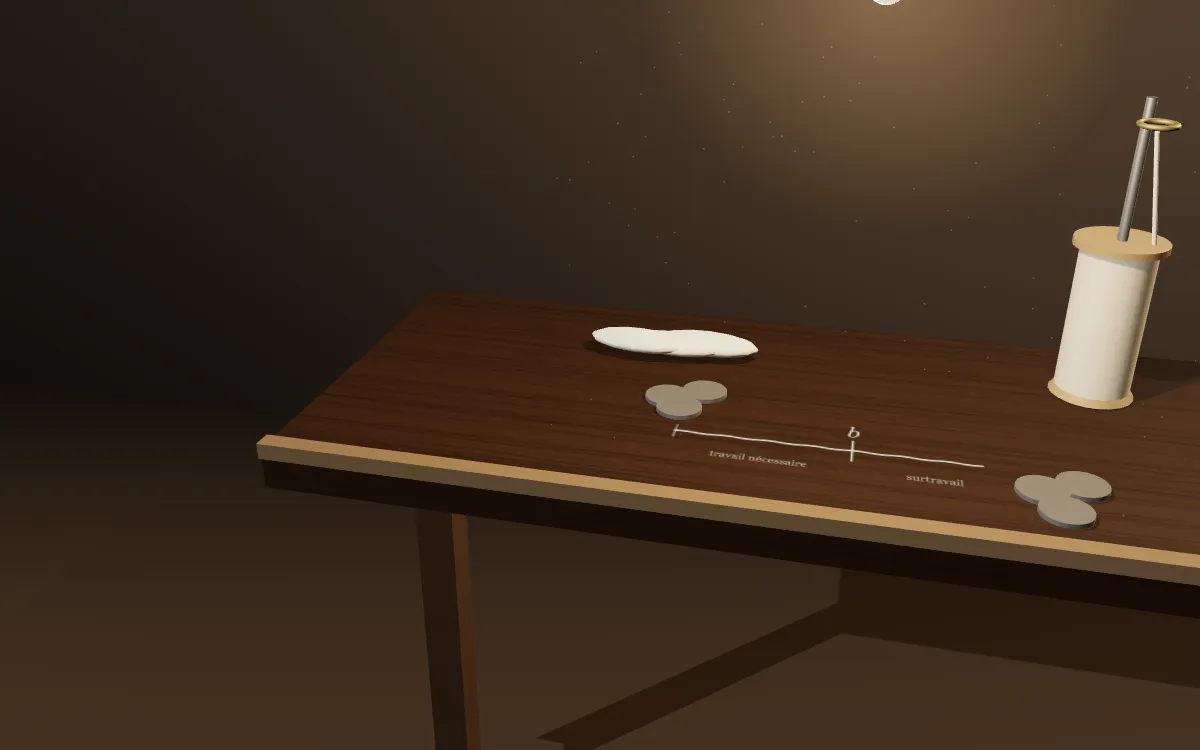
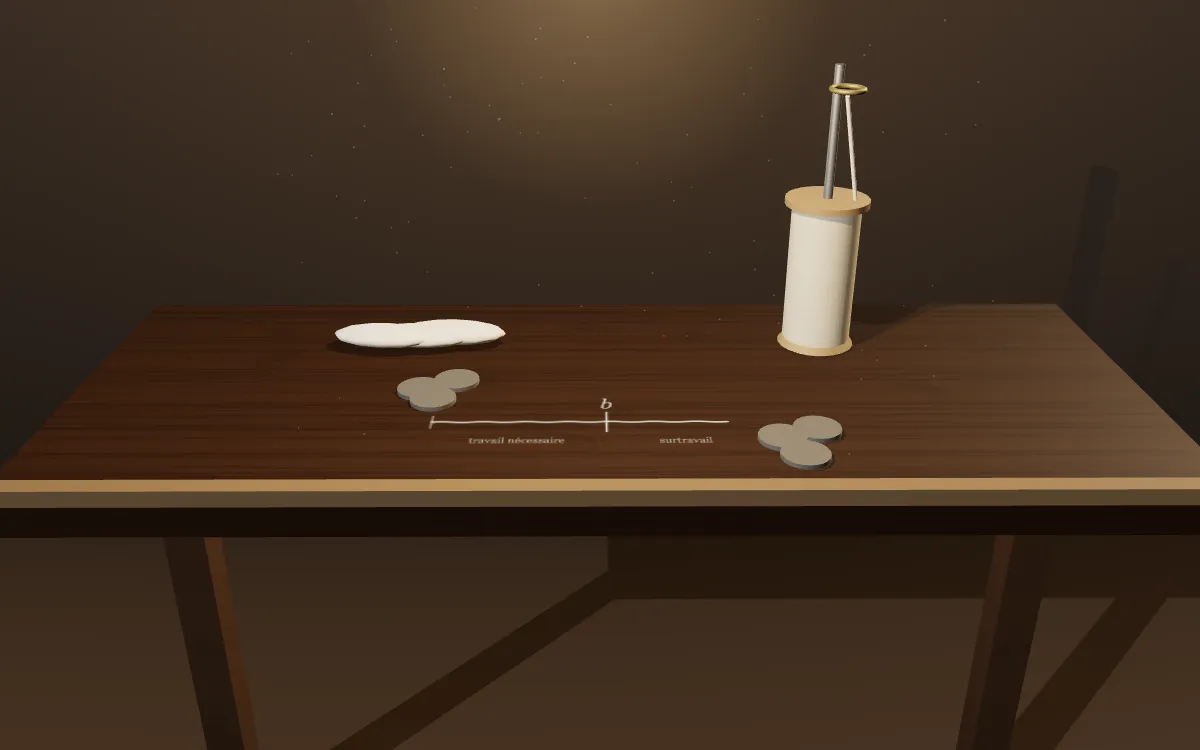
Glossaire : plus-value réécrite selon la charte, direction artistique « la feuille de paie »

diff --git a/glossaire/mondes/plus-value/essai.html b/glossaire/mondes/plus-value/essai.html
@@ -1,46 +1,84 @@
-<!-- L'ESSAI — le corps de /glossaire/plus-value. Même contrat que
-     fetichisme/essai.html : data-s="2" = Section II de Roy (ch. IV–VI),
-     data-s="3" = Section III (ch. VII–XI). -->
+<!-- L'ESSAI : le corps de /glossaire/plus-value.
+     Fragment HTML, assemblé par tools/gen-seo.mjs dans le gabarit des pages
+     de notion (avec meta.json pour la tête, l'appareil et le monde).
+     Réécrit en octobre 2026 selon glossaire/mondes/CHARTE.md.
+     Une <section data-etape="…"> par temps de l'exposé : c'est l'étape que
+     la scène (monde.js) joue. Un data-q est une phrase RELEVÉE dans le texte
+     que la liseuse sert (Roy, Wikisource), au caractère près : data-s="2" =
+     section II de Roy (ch. IV à VI), data-s="3" = section III (ch. VII à XI),
+     data-s="5" = section V (ch. XVI à XVIII). Ne pas « corriger » les
+     traits d'union insécables ni l'apostrophe typographique. -->
 
 <section class="nt-sec" data-etape="enigme" id="enigme">
-<h2>D'où vient le plus&nbsp;?</h2>
-<p>La plus-value est le concept autour duquel le Livre&nbsp;I tout entier s'organise, et Marx le présente lui-même comme un secret à dévoiler&nbsp;: <q data-s="2" data-q="La fabrication de la plus‑value, ce grand secret de la société moderne">la fabrication de la plus‑value, ce grand secret de la société moderne</q>. Il faut prendre le mot au sérieux, parce que la manière dont Marx s'y prend pour le dévoiler est la démonstration elle-même. Il commence par rendre le problème insoluble. La formule du capital est A—M—A′&nbsp;: de l'argent qui achète une marchandise pour la revendre, et revient augmenté d'un excédent, ΔA, qu'il nomme plus-value. Or le chapitre V établit que cet excédent ne peut venir de la circulation. Si l'on échange des équivalents, nul ne gagne&nbsp;; si l'on échange des non-équivalents, ce que l'un gagne comme vendeur il le reperd comme acheteur, et <q data-s="2" data-q="La classe entière des capitalistes d’un pays ne peut pas bénéficier sur elle-même">la classe entière des capitalistes d’un pays ne peut pas bénéficier sur elle-même</q>. Marx conclut&nbsp;:</p>
+<h2>Pourquoi l'échange ne peut-il pas expliquer la plus-value&nbsp;?</h2>
+<p class="nt-lead">Parce que dans l'échange, ce que l'un gagne, l'autre le perd. Marx commence par montrer que le surplus de l'argent placé ne peut pas venir du commerce, et le problème paraît alors sans solution.</p>
+<p>Marx présente la plus-value comme une énigme. Il parle de <q data-s="2" data-q="La fabrication de la plus‑value, ce grand secret de la société moderne">la fabrication de la plus‑value, ce grand secret de la société moderne</q>, et il organise son exposé comme on résout un problème. Le point de départ est un fait que tout le monde connaît. Celui qui place de l'argent comme capital achète une marchandise pour la revendre&nbsp;: l'argent (A) devient marchandise (M), puis redevient argent, mais un argent augmenté (A′). Marx écrit ce mouvement A-M-A′ et nomme plus-value l'excédent de A′ sur A. Reste à savoir d'où il sort.</p>
+<p>La réponse qui vient d'abord est le commerce&nbsp;: on achète bon marché, on revend cher. Le chapitre V l'examine et la rejette. Si l'on échange des valeurs égales, personne ne gagne. Si quelqu'un vend au-dessus de la valeur, il reperd comme acheteur ce qu'il a gagné comme vendeur. Un marchand habile peut tromper un autre marchand, mais ce qu'il gagne a seulement changé de poche, et <q data-s="2" data-q="La classe entière des capitalistes d’un pays ne peut pas bénéficier sur elle-même">la classe entière des capitalistes d’un pays ne peut pas bénéficier sur elle-même</q>. Marx conclut&nbsp;:</p>
 <blockquote data-s="2" data-q="Qu’on se tourne et retourne comme on voudra, les choses restent au même point"><p>Qu’on se tourne et retourne comme on voudra, les choses restent au même point. Échange-t-on des équivalents&nbsp;? Il ne se produit point de plus-value&nbsp;; il ne s’en produit pas non plus si l’on échange des non-équivalents. La circulation ou l’échange des marchandises ne crée aucune valeur.</p></blockquote>
-<p>Mais la plus-value ne peut pas davantage naître hors de la circulation, puisque hors d'elle le possesseur d'argent n'a affaire qu'à sa propre marchandise et ne rencontre personne. La difficulté est donc entière, et Marx la formule comme un défi&nbsp;: la métamorphose de l'homme aux écus en capitaliste <q data-s="2" data-q="doit se passer dans la sphère de la circulation et en même temps doit ne point s’y passer">doit se passer dans la sphère de la circulation et en même temps doit ne point s’y passer</q>. Toute la théorie de la plus-value est la résolution de cette contradiction, et il faut la suivre dans l'ordre où Marx la résout&nbsp;: la marchandise particulière qu'il faut trouver, la distinction de grandeur qu'elle recèle, le mécanisme par lequel cette distinction devient un excédent, la mesure de cet excédent, et enfin les deux voies par lesquelles le capital l'accroît.</p>
+<p>La plus-value ne peut pas davantage naître hors de l'échange. Le possesseur d'argent qui reste seul avec sa marchandise ne rencontre personne, et la valeur de ce qu'il possède ne bouge pas. Marx pose alors le problème sous la forme d'un défi&nbsp;: la transformation de l'homme aux écus en capitaliste <q data-s="2" data-q="doit se passer dans la sphère de la circulation et en même temps doit ne point s’y passer">doit se passer dans la sphère de la circulation et en même temps doit ne point s’y passer</q>. Toute la théorie de la plus-value répond à cette contradiction apparente.</p>
 </section>
 
 <section class="nt-sec" data-etape="lieu" id="lieu">
-<h2>Où Marx la pose&nbsp;: dans la production, et non dans l'échange</h2>
-<p>La solution tient dans une marchandise dont la valeur d'usage a <q data-s="2" data-q="la vertu particulière d’être source de valeur échangeable">la vertu particulière d’être source de valeur échangeable</q>&nbsp;: la <a href="/glossaire/force-de-travail">force de travail</a>. Le chapitre VI l'achète sur le marché, à sa valeur&nbsp;; le chapitre VII la consomme, et c'est là seulement que la plus-value paraît. Ce déplacement du marché à l'atelier n'est pas un détour&nbsp;: c'est la thèse. Marx le marque en franchissant, avec ses deux personnages, le seuil du <q data-s="2" data-q="laboratoire secret de la production">laboratoire secret de la production</q>, et le chapitre VII s'ouvre par une phrase qui fixe le lieu du concept&nbsp;: <q data-s="3" data-q="L’usage ou l’emploi de la force de travail, c’est le travail">l’usage ou l’emploi de la force de travail, c’est le travail</q>.</p>
-<p>Il importe de voir pourquoi le chapitre analyse d'abord le procès de travail en général, l'homme, la nature et l'outil, avant d'en venir à la valeur. C'est que la production capitaliste est la même production sous deux faces&nbsp;: comme production de valeurs d'usage, elle est un acte utile, qualitatif, qui ne se distingue en rien de ce qu'il était avant le capital&nbsp;; comme production de valeur, le même procès ne se présente qu'au point de vue de la quantité, du temps. La plus-value ne vit que sur la seconde face, et Marx en donne la définition la plus sobre qu'on puisse imaginer&nbsp;:</p>
+<h2>Quelle marchandise peut créer plus de valeur qu'elle n'en coûte&nbsp;?</h2>
+<p class="nt-lead">La force de travail, c'est-à-dire la capacité de travailler d'un être humain. On l'achète sur le marché, on l'emploie dans l'atelier, et c'est son emploi qui crée de la valeur.</p>
+<p>Pour sortir de l'impasse, il faut une marchandise dont la valeur d'usage, c'est-à-dire l'utilité, consiste à produire de la valeur. Marx la décrit comme une marchandise qui aurait <q data-s="2" data-q="la vertu particulière d’être source de valeur échangeable">la vertu particulière d’être source de valeur échangeable</q>. Le chapitre VI la trouve sur le marché&nbsp;: c'est la <a href="/glossaire/force-de-travail">force de travail</a>, que l'ouvrier vend pour un temps donné parce qu'il n'a rien d'autre à vendre. Le capitaliste la paie à sa valeur, celle des subsistances qu'il faut à l'ouvrier pour vivre et revenir le lendemain. Rien, dans cet achat, n'est irrégulier.</p>
+<p>Marx change alors de décor. Il quitte le marché avec ses deux personnages, l'acheteur et le vendeur, et entre avec eux dans le <q data-s="2" data-q="laboratoire secret de la production">laboratoire secret de la production</q>. Le chapitre VII commence par une phrase qui fixe le lieu du concept&nbsp;: <q data-s="3" data-q="L’usage ou l’emploi de la force de travail, c’est le travail">l’usage ou l’emploi de la force de travail, c’est le travail</q>. L'achat a eu lieu dans l'échange. La consommation de ce qui a été acheté a lieu dans la production, et c'est là que la plus-value se forme.</p>
+<p>Le chapitre décrit d'abord le travail en général, avec l'homme, la matière et l'outil, avant d'en venir à la valeur. Le même procès peut en effet se regarder de deux côtés. Comme fabrication d'objets utiles, il ressemble à tout travail humain, à toutes les époques. Comme production de valeur, il ne compte plus que du temps. C'est de ce second côté que Marx donne sa définition&nbsp;:</p>
 <blockquote data-s="3" data-q="La production de plus‑value n’est donc autre chose que la production de valeur, prolongée au‑delà d’un certain point"><p>La production de plus‑value n’est donc autre chose que la production de valeur, prolongée au‑delà d’un certain point. Si le procès de travail ne dure que jusqu’au point où la valeur de la force de travail payée par le capital est remplacée par un équivalent nouveau, il y a simple production de valeur&nbsp;; quand il dépasse cette limite, il y a production de plus‑value.</p></blockquote>
-<p>On comprend alors pourquoi le concept ne pouvait être exposé ni au chapitre I, où il n'y a encore que des marchandises, ni au chapitre IV, où la formule du capital ne fait que poser la question. Il fallait avoir montré ce qu'est le travail comme substance de la valeur, puis ce qu'est la force de travail comme marchandise, pour pouvoir dire que la plus-value est du travail qui continue au-delà du point où il s'est payé.</p>
 </section>
 
 <section class="nt-sec" data-etape="distinction" id="distinction">
-<h2>La distinction qui fait le concept, et le mot qui la nomme</h2>
-<p>La plus-value repose entièrement sur une différence de grandeur que l'économie politique n'avait pas vue, parce qu'elle parlait de la «&nbsp;valeur du travail&nbsp;» au lieu de distinguer la force et son usage. La force de travail a une valeur, celle des subsistances qu'il faut pour la produire chaque jour, mettons six heures. Mais l'usage de cette force n'est pas borné par son coût&nbsp;: <q data-s="3" data-q="Si une demi‑journée de travail suffit pour faire vivre l’ouvrier pendant vingt‑quatre heures">si une demi‑journée de travail suffit pour faire vivre l’ouvrier pendant vingt‑quatre heures, il ne s’ensuit pas qu’il ne puisse travailler une journée tout entière</q>. Marx le dit en une phrase qu'il faut retenir comme la définition même du concept&nbsp;: <q data-s="3" data-q="La valeur que la force de travail possède et la valeur qu’elle peut créer, diffèrent donc de grandeur">la valeur que la force de travail possède et la valeur qu’elle peut créer, diffèrent donc de grandeur</q>. La plus-value est cette différence, une fois réalisée dans le produit. Et il ajoute, avec une ironie qui est déjà une thèse, que le capitaliste, en la percevant, se conforme aux lois éternelles de l'échange&nbsp;: c'est <q data-s="3" data-q="une chance particulièrement heureuse pour l’acheteur, mais qui ne lèse en rien le droit du vendeur">une chance particulièrement heureuse pour l’acheteur, mais qui ne lèse en rien le droit du vendeur</q>.</p>
-<p>Un mot sur le mot. L'allemand dit <i lang="de">Mehrwert</i>, littéralement «&nbsp;plus de valeur&nbsp;», sur le modèle de <i lang="de">Mehrarbeit</i>, le surtravail. Joseph Roy, dans la traduction de 1872 que Marx a revue et que ce site sert, écrit «&nbsp;plus-value&nbsp;»&nbsp;; Jean-Pierre Lefebvre, dans celle de 1983, a choisi «&nbsp;survaleur&nbsp;», pour deux raisons qui se tiennent&nbsp;: garder visible la famille de <i>Wert</i>, la valeur, dont <i>Mehrwert</i> n'est qu'un composé, et éviter le sens que «&nbsp;plus-value&nbsp;» a pris en comptabilité et en fiscalité, où il désigne le gain réalisé à la revente d'un bien, c'est-à-dire précisément ce que Marx exclut au chapitre V. Nous gardons «&nbsp;plus-value&nbsp;», parce que c'est le mot du texte que l'on lit ici et celui que l'on cherche&nbsp;; mais le lecteur qui rencontre «&nbsp;survaleur&nbsp;» doit savoir qu'il s'agit du même concept, et que le second mot dit mieux ce qu'il est&nbsp;: non une plus-value <i>sur</i> quelque chose, mais de la valeur en plus, née du travail.</p>
+<h2>Que mesure la plus-value, et pourquoi dit-on aussi «&nbsp;survaleur&nbsp;»&nbsp;?</h2>
+<p class="nt-lead">Elle mesure l'écart entre ce que coûte la force de travail et ce qu'elle produit en une journée. L'allemand dit <i lang="de">Mehrwert</i>, «&nbsp;plus de valeur&nbsp;»&nbsp;: Joseph Roy traduit «&nbsp;plus-value&nbsp;», Jean-Pierre Lefebvre «&nbsp;survaleur&nbsp;».</p>
+<p>Les économistes d'avant Marx parlaient de la «&nbsp;valeur du travail&nbsp;». Marx sépare deux choses que cette expression confond&nbsp;: la force de travail et son usage. La force vaut ce que coûtent les subsistances de l'ouvrier pour un jour, mettons six heures de travail. Son usage, lui, n'est pas borné par ce coût&nbsp;: <q data-s="3" data-q="Si une demi‑journée de travail suffit pour faire vivre l’ouvrier pendant vingt‑quatre heures">si une demi‑journée de travail suffit pour faire vivre l’ouvrier pendant vingt‑quatre heures, il ne s’ensuit pas qu’il ne puisse travailler une journée tout entière</q>. D'où la phrase qui tient lieu de définition&nbsp;: <q data-s="3" data-q="La valeur que la force de travail possède et la valeur qu’elle peut créer, diffèrent donc de grandeur">la valeur que la force de travail possède et la valeur qu’elle peut créer, diffèrent donc de grandeur</q>. La plus-value est cette différence, une fois inscrite dans le produit.</p>
+<p>Marx ajoute, avec une ironie qui porte un argument, que le capitaliste n'enfreint aucune règle en encaissant cette différence. Elle est <q data-s="3" data-q="une chance particulièrement heureuse pour l’acheteur, mais qui ne lèse en rien le droit du vendeur">une chance particulièrement heureuse pour l’acheteur, mais qui ne lèse en rien le droit du vendeur</q>. Le vendeur a reçu le prix de sa marchandise. Ce que l'usage de cette marchandise rapporte ensuite appartient à celui qui l'a achetée, comme l'usage de n'importe quelle chose achetée.</p>
+<p>Un mot, maintenant, sur le mot. L'allemand <i lang="de">Mehrwert</i> associe <i lang="de">mehr</i>, «&nbsp;plus&nbsp;», et <i lang="de">Wert</i>, «&nbsp;valeur&nbsp;», sur le modèle de <i lang="de">Mehrarbeit</i>, le surtravail. Joseph Roy, dans la traduction de 1872 que Marx a revue et que ce site sert, écrit «&nbsp;plus-value&nbsp;». La traduction dirigée par Jean-Pierre Lefebvre en 1983 écrit «&nbsp;survaleur&nbsp;». On peut comprendre ce choix de deux façons. Le mot garde visible la famille de la valeur, comme «&nbsp;surtravail&nbsp;» garde celle du travail. Il évite aussi le sens que «&nbsp;plus-value&nbsp;» a pris dans la langue courante et en droit fiscal, celui du gain réalisé en revendant un bien plus cher qu'on ne l'a acheté.</p>
+<p>Ce second sens est piégeux, car il désigne exactement l'explication que Marx écarte au chapitre V&nbsp;: le profit tiré d'une revente. Celui qui lit «&nbsp;plus-value&nbsp;» en pensant à une plus-value immobilière part donc dans la mauvaise direction. Cette page garde le mot de Roy, qui est celui du texte servi et celui qu'on cherche. Plus-value et survaleur désignent le même concept&nbsp;: de la valeur en plus, née du travail.</p>
 </section>
 
 <section class="nt-sec" data-etape="mecanisme" id="mecanisme">
-<h2>Le mécanisme&nbsp;: la journée coupée en deux</h2>
-<p>Marx fait la démonstration sur un exemple qu'il conduit jusqu'au bout, et l'exemple vaut mieux que tout résumé. Un fileur transforme du coton en filés. Le capitaliste a acheté dix livres de coton pour dix shillings, l'usure des broches pour deux, et la force de travail d'une journée pour trois, soit la valeur de six heures. Le fileur file pendant six heures&nbsp;: les dix livres de filés valent quinze shillings, exactement ce qui a été avancé. <q data-s="3" data-q="Notre capitaliste reste ébahi">Notre capitaliste reste ébahi</q>&nbsp;: la valeur du produit égale la valeur du capital avancé, l'argent ne s'est pas métamorphosé en capital. Il plaide son abstinence, ses services, sa surveillance&nbsp;; Marx écarte ces litanies une à une. Puis&nbsp;:</p>
+<h2>Comment le fileur de Marx produit-il une plus-value&nbsp;?</h2>
+<p class="nt-lead">En travaillant plus longtemps qu'il ne faut pour reproduire la valeur de sa force de travail. Les six premières heures remboursent son salaire, les six suivantes forment la plus-value, et tout a été payé à sa valeur.</p>
+<p>Marx fait la démonstration sur un exemple qu'il conduit jusqu'au bout. Il prend un fileur, qui transforme du coton en fil à l'aide d'une broche, et il compte tout en shillings.</p>
+<div class="nt-ex">
+<p class="nt-ex-t">Un exemple&nbsp;: le fileur du chapitre VII</p>
+<p>Les chiffres sont ceux de Marx. Le capitaliste a acheté dix livres de coton pour dix shillings, l'usure des broches pour deux, et une journée de force de travail pour trois, soit la valeur de six heures de travail. Le fileur file six heures&nbsp;: les dix livres de filés valent quinze shillings, exactement la somme avancée. <q data-s="3" data-q="Notre capitaliste reste ébahi">Notre capitaliste reste ébahi</q>&nbsp;: son argent n'a rien rapporté.</p>
+<p>Mais c'est une journée entière qu'il a achetée&nbsp;:</p>
 <blockquote data-s="3" data-q="Notre capitaliste a prévu le cas, et c’est ce qui le fait rire"><p>Notre capitaliste a prévu le cas, et c’est ce qui le fait rire. L’ouvrier trouve donc dans l’atelier les moyens de production nécessaires pour une journée de travail non pas de six mais de douze heures.</p></blockquote>
-<p>Vingt livres de coton absorbent douze heures de travail et deviennent vingt livres de filés, qui valent trente shillings, quand la somme avancée n'était que de vingt-sept. <q data-s="3" data-q="Ils ont enfanté une plus‑value de trois shillings. Le tour est fait">Ils ont enfanté une plus‑value de trois shillings. Le tour est fait. L’argent s’est métamorphosé en capital</q>. Et le point décisif tient dans la phrase suivante&nbsp;: <q data-s="3" data-q="La loi des échanges a été rigoureusement observée, équivalent contre équivalent">la loi des échanges a été rigoureusement observée, équivalent contre équivalent</q>. Le coton, les broches, la force de travail ont été achetés à leur valeur&nbsp;; les filés sont vendus à la leur, pas un liard au-dessus. La plus-value n'est le fruit d'aucune tromperie&nbsp;: elle est le fruit de l'usage d'une marchandise dont l'usage crée. C'est ce que Marx résume en disant que la transformation de l'argent en capital <q data-s="3" data-q="se passe dans la sphère de la circulation, et ne s’y passe pas">se passe dans la sphère de la circulation, et ne s’y passe pas</q>&nbsp;: la contradiction du chapitre V est résolue dans ses deux termes.</p>
-<p>Le chapitre IX donne à cette structure ses noms et sa mesure. La partie de la journée où l'ouvrier reproduit la valeur de sa force, six heures dans l'exemple, Marx la nomme <q data-s="3" data-q="temps de travail nécessaire, la partie de la journée où cette reproduction s’accomplit">temps de travail nécessaire</q>&nbsp;; la partie qui la dépasse coûte du travail à l'ouvrier mais ne forme aucune valeur pour lui, elle forme une plus-value <q data-s="3" data-q="qui a pour le capitaliste tous les charmes d’une création ex nihilo">qui a pour le capitaliste tous les charmes d’une création ex nihilo</q>&nbsp;: c'est le temps extra, et le travail dépensé en lui, le surtravail. Le chapitre X en fait une figure, la ligne a—b—c, où ab est le travail nécessaire et bc sa prolongation. Le rapport du second au premier, le taux de plus-value, p/v, <q data-s="3" data-q="est donc l’expression exacte du degré d’exploitation de la force de travail par le capital">est donc l’expression exacte du degré d’exploitation de la force de travail par le capital</q>. Le mot d'exploitation, chez Marx, est d'abord une mesure&nbsp;: non un jugement, mais un rapport de deux durées.</p>
+<p>En douze heures, le fileur transforme vingt livres de coton (vingt shillings) en usant des broches pour quatre shillings. Le capitaliste a donc avancé vingt-sept shillings, salaire compris. Les vingt livres de filés en valent trente. <q data-s="3" data-q="Ils ont enfanté une plus‑value de trois shillings. Le tour est fait">Ils ont enfanté une plus‑value de trois shillings. Le tour est fait. L’argent s’est métamorphosé en capital</q>.</p>
+</div>
+<div data-planche="mule"></div>
+<p>Rien n'a été faussé en chemin, et Marx y insiste&nbsp;: <q data-s="3" data-q="La loi des échanges a été rigoureusement observée, équivalent contre équivalent">la loi des échanges a été rigoureusement observée, équivalent contre équivalent</q>. Le coton, les broches et la force de travail ont été achetés à leur valeur, et les filés se vendent à la leur. La transformation de l'argent en capital <q data-s="3" data-q="se passe dans la sphère de la circulation, et ne s’y passe pas">se passe dans la sphère de la circulation, et ne s’y passe pas</q>&nbsp;: l'achat de la force de travail a lieu sur le marché, la création de valeur dans l'atelier. La contradiction du chapitre V est levée.</p>
+<p>Le chapitre IX donne aux deux moitiés de la journée leurs noms. La première, celle où l'ouvrier reproduit la valeur de sa force, est le <q data-s="3" data-q="temps de travail nécessaire, la partie de la journée où cette reproduction s’accomplit">temps de travail nécessaire</q>&nbsp;; on dit plus brièvement le <a href="/glossaire/travail-necessaire">travail nécessaire</a>. Au-delà, le travail coûte toujours de la peine à l'ouvrier, mais il ne forme aucune valeur pour lui. Il forme une plus-value <q data-s="3" data-q="qui a pour le capitaliste tous les charmes d’une création ex nihilo">qui a pour le capitaliste tous les charmes d’une création ex nihilo</q>, et le travail dépensé pendant ce temps est le <a href="/glossaire/surtravail">surtravail</a>.</p>
+<p>Reste à mesurer. Marx rapporte la plus-value (p) au capital variable (v), la part du capital dépensée en salaires, puisque c'est elle seule qui grandit. Ce rapport, p/v, est le <a href="/glossaire/taux-de-plus-value">taux de plus-value</a>, et il <q data-s="3" data-q="est donc l’expression exacte du degré d’exploitation de la force de travail par le capital">est donc l’expression exacte du degré d’exploitation de la force de travail par le capital</q>. Dans l'exemple du fileur, trois shillings de plus-value pour trois de salaire font un taux de 100&nbsp;%. Chez Marx, le mot d'exploitation désigne d'abord cette mesure&nbsp;: le rapport entre deux durées.</p>
 </section>
 
 <section class="nt-sec" data-etape="ouvre" id="ouvre">
-<h2>Ce que le concept ouvre&nbsp;: les deux voies, et la lutte</h2>
-<p>Dès lors que la plus-value ne sort que du travail vivant, le capital n'a que deux moyens de l'accroître, et ces deux moyens organisent tout le reste du Livre&nbsp;I. Le premier est d'allonger la ligne bc en prolongeant la journée&nbsp;: Marx le nomme plus-value <i>absolue</i>, et lui consacre le chapitre X, qui est l'histoire d'une lutte. Car le capitaliste a acheté la force de travail à sa valeur journalière, et prétend en user tout le jour&nbsp;; <q data-s="3" data-q="Le capital est du travail mort, qui, semblable au vampire, ne s’anime qu’en suçant le travail vivant">le capital est du travail mort, qui, semblable au vampire, ne s’anime qu’en suçant le travail vivant</q>. Mais le vendeur, qui doit pouvoir revendre demain la même marchandise, a le droit d'en limiter la consommation, et Marx lui donne la parole&nbsp;: <q data-s="3" data-q="Ce que tu gagnes en travail je le perds en substance">ce que tu gagnes en travail je le perds en substance</q>. D'où la formule&nbsp;:</p>
+<h2>Comment le capital peut-il accroître la plus-value&nbsp;?</h2>
+<p class="nt-lead">De deux manières&nbsp;: en allongeant la journée, c'est la plus-value absolue, ou en réduisant le temps de travail nécessaire, c'est la plus-value relative. Le chapitre X montre que la première est une lutte.</p>
+<p>Au début du chapitre X, Marx représente la journée de travail par une ligne droite, a-b-c. Le segment ab est le temps de travail nécessaire, six heures dans son exemple&nbsp;; le segment bc est la prolongation, le surtravail. Tant que ab ne change pas, la plus-value grandit avec bc. Allonger la journée, c'est produire de la <a href="/glossaire/plus-value-absolue">plus-value absolue</a>.</p>
+<p>Le capitaliste a payé la force de travail pour une journée, et il entend s'en servir le plus longtemps possible. Marx le dit par une image&nbsp;: <q data-s="3" data-q="Le capital est du travail mort, qui, semblable au vampire, ne s’anime qu’en suçant le travail vivant">le capital est du travail mort, qui, semblable au vampire, ne s’anime qu’en suçant le travail vivant</q>. Mais l'ouvrier doit pouvoir revendre demain la même marchandise, et Marx lui donne la parole&nbsp;: <q data-s="3" data-q="Ce que tu gagnes en travail je le perds en substance">ce que tu gagnes en travail je le perds en substance</q>. Chacun invoque la même loi, celle de l'échange&nbsp;:</p>
 <blockquote data-s="3" data-q="Il y a donc ici une antinomie, droit contre droit"><p>Il y a donc ici une antinomie, droit contre droit, tous deux portent le sceau de la loi qui règle l’échange des marchandises. Entre deux droits égaux qui décide&nbsp;? La Force.</p></blockquote>
-<p>Le second moyen est de raccourcir ab sans toucher à ac&nbsp;: réduire le travail nécessaire en abaissant la valeur des subsistances, donc en augmentant la productivité du travail. C'est la plus-value <i>relative</i>, et elle commande la quatrième section du livre (la coopération, la manufacture, la machine), c'est-à-dire la transformation de l'atelier, de la technique et du corps de l'ouvrier par le capital. Là où la plus-value absolue laisse le procès de travail tel qu'elle le trouve, la plus-value relative le refond de fond en comble&nbsp;; Marx nommera ce passage la subsomption réelle du travail sous le capital.</p>
-<p>Enfin, la plus-value est ce qui se cache sous les catégories que tout le monde emploie. Le profit est de la plus-value rapportée non au seul capital variable, mais au capital <i>total</i>, machines et matières comprises&nbsp;: le même excédent paraît alors sortir de l'ensemble du capital, et non du travail, et le taux de profit dissimule ce que le taux de plus-value montrait. Le Livre&nbsp;III déploiera cette dissimulation jusqu'à la rente et à l'intérêt. Et la plus-value, reconvertie en capital au lieu d'être consommée, est l'<a href="/glossaire/#accumulation">accumulation</a>&nbsp;: la septième section du livre montre que le capital ne se reproduit pas seulement, il grandit, et que sa croissance produit à chaque tour le rapport qui la rend possible&nbsp;: d'un côté des possesseurs de capital, de l'autre des possesseurs de force de travail.</p>
+<p>Le chapitre X raconte alors l'histoire de cette lutte en Angleterre, jusqu'aux lois qui limitent la <a href="/glossaire/journee-de-travail">journée de travail</a>. La plus-value y devient l'enjeu d'un rapport de forces entre deux classes.</p>
+<p>La seconde voie consiste à raccourcir ab sans toucher à la longueur de la journée. Si les subsistances de l'ouvrier coûtent moins de travail, sa force vaut moins, et une plus grande part de la même journée revient au capital. Pour cela, il faut augmenter la productivité du travail. C'est la <a href="/glossaire/plus-value-relative">plus-value relative</a>, qui occupe la quatrième section du livre&nbsp;: la coopération, la manufacture, la machine. Là où la plus-value absolue laisse le travail tel qu'elle le trouve, la plus-value relative transforme l'atelier jusque dans les gestes de l'ouvrier.</p>
+<p>La plus-value se cache enfin sous des catégories que tout le monde emploie. Le profit est la plus-value rapportée au capital entier, machines et matières comprises, et non au seul capital variable. Le même surplus semble alors sortir de tout le capital, et non plus du travail&nbsp;; le Livre&nbsp;III développe cette apparence jusqu'à l'intérêt et à la rente. Et la plus-value reconvertie en capital, au lieu d'être consommée, devient l'<a href="/glossaire/accumulation">accumulation</a>&nbsp;: le capital grandit, et reproduit à chaque tour le rapport entre ceux qui possèdent les moyens de production et ceux qui n'ont que leur force de travail.</p>
 </section>
 
 <section class="nt-sec" data-etape="lectures" id="lectures">
-<h2>Lectures, et contresens</h2>
-<p>La théorie de la plus-value est ce que Marx tenait pour sa découverte propre, et Engels, dans sa préface au Livre&nbsp;II, l'a comparée à la découverte de l'oxygène par Lavoisier&nbsp;: les économistes avaient le phénomène sous les yeux, le profit, la rente, l'intérêt, comme les chimistes avaient l'air déphlogistiqué, et il manquait le concept qui les unifie. Il n'est pas inutile de dire où nous nous rangeons dans les débats qui ont suivi. Le premier oppose Marx à Ricardo, dont il part&nbsp;: Ricardo avait vu que le profit et le salaire varient en sens inverse, mais il n'a jamais demandé pourquoi il y a un profit, parce que la «&nbsp;valeur du travail&nbsp;» lui interdisait de le voir&nbsp;; la plus-value n'est pas une correction de Ricardo, elle est ce que sa théorie ne pouvait pas contenir. Le second porte sur la nature du concept&nbsp;: Moishe Postone, dans <i>Temps, travail et domination sociale</i>, a soutenu que l'essentiel n'est pas l'appropriation d'un excédent par une classe, mais la forme de domination par le temps abstrait qui rend cet excédent mesurable&nbsp;; la lecture éclaire ce que la ligne a—b—c a de proprement moderne, mais elle tend à effacer la lutte du chapitre X, où deux droits s'affrontent et où la force décide. Nous tenons les deux ensemble&nbsp;: la plus-value est une mesure de temps <i>et</i> un rapport de forces, et le chapitre X est précisément le lieu où la mesure devient une lutte.</p>
-<p>Trois contresens, que le texte permet d'écarter. Le premier identifie la plus-value au profit&nbsp;; or le profit est la <i>forme</i> sous laquelle la plus-value paraît quand on la rapporte au capital total, et cette forme est trompeuse par construction&nbsp;; la confondre avec le concept, c'est reprendre à son compte l'apparence que le concept explique. Le deuxième fait de l'exploitation une fraude, un salaire payé au-dessous de ce qu'il devrait&nbsp;; Marx suppose au contraire que la force de travail est payée à sa valeur, et c'est ce qui rend sa démonstration redoutable, en cela que la plus-value naît d'un échange loyal et non d'une entorse au contrat. Le troisième attribue la plus-value aux machines, au capital, à l'organisation, à tout ce qui n'est pas le travail vivant&nbsp;; mais les moyens de production ne font que transférer au produit la valeur qu'ils contiennent, comme Marx le montre sur les broches et le coton, et la seule marchandise dont l'usage crée de la valeur est celle qui se consomme en travaillant. Que le capital sache faire produire davantage à ce travail, par la journée ou par la machine, c'est tout l'objet du livre&nbsp;; mais c'est toujours ce travail-là qu'il fait produire.</p>
+<h2>Comment lire ce concept, et quels contresens éviter&nbsp;?</h2>
+<p class="nt-lead">Marx tenait la plus-value pour sa découverte propre. On la discute depuis sur deux terrains, son rapport à Ricardo et sa nature, et trois contresens courants se corrigent en relisant le texte.</p>
+<p>Engels, dans sa préface au Livre&nbsp;II du <i>Capital</i> (1885), compare cette découverte à celle de l'oxygène par Lavoisier. Les chimistes avaient le gaz sous les yeux sans le comprendre&nbsp;; les économistes avaient sous les yeux le profit, la rente et l'intérêt sans voir ce qui les unit. Marx le reproche nommément à David Ricardo, dont il part pourtant&nbsp;: <q data-s="5" data-q="Ricardo ne s’occupe jamais de la raison d’être de la plus-value">Ricardo ne s’occupe jamais de la raison d’être de la plus-value</q>. Ricardo traite le profit comme un fait de la production en général. Sa théorie, fondée sur la «&nbsp;valeur du travail&nbsp;», ne pouvait pas poser la question d'où il vient.</p>
+<p>Le second débat porte sur la nature du concept. Moishe Postone, dans <i>Temps, travail et domination sociale</i>, a soutenu que le cœur de la théorie est une domination exercée par le temps abstrait, celui qui rend le surplus mesurable, plus que l'appropriation d'un surplus par une classe. Cette lecture éclaire ce que la ligne a-b-c a de moderne&nbsp;: une journée découpée en heures comptables. Elle tend cependant à effacer la lutte du chapitre X, où deux droits s'affrontent et où la force décide. Nous tenons les deux ensemble&nbsp;: la plus-value est une mesure de temps et un rapport de forces, et le chapitre X est l'endroit où la mesure devient une lutte.</p>
+<div class="nt-cs">
+<p><span class="nt-cs-k">On lit souvent</span> La plus-value serait le profit sous un autre nom.</p>
+<p><span class="nt-cs-k">Ce que dit le texte</span> Le profit est la forme sous laquelle la plus-value apparaît quand on la rapporte au capital entier. Cette forme masque d'où vient le surplus. Confondre les deux, c'est reprendre à son compte l'apparence que le concept sert à expliquer.</p>
+</div>
+<div class="nt-cs">
+<p><span class="nt-cs-k">On lit souvent</span> L'exploitation serait une fraude&nbsp;: un salaire payé au-dessous de ce qu'il devrait être.</p>
+<p><span class="nt-cs-k">Ce que dit le texte</span> Marx suppose que la force de travail est payée à sa valeur, et c'est ce qui donne sa force à la démonstration. La plus-value naît d'un échange régulier, par l'usage de ce qui a été acheté. Le capitaliste le plus scrupuleux en perçoit une.</p>
+</div>
+<div class="nt-cs">
+<p><span class="nt-cs-k">On lit souvent</span> Les machines, l'organisation ou le capital produiraient eux aussi de la plus-value.</p>
+<p><span class="nt-cs-k">Ce que dit le texte</span> Le coton et les broches du fileur transmettent au produit la valeur qu'ils contiennent, sans rien y ajouter. La machine rend le travail plus productif, mais la productivité n'est jamais, pour Marx, la cause de la plus-value&nbsp;: <q data-s="5" data-q="Cette cause, c’est toujours le surtravail, quel que soit le mode de l’arracher">cette cause, c’est toujours le surtravail, quel que soit le mode de l’arracher</q>.</p>
+</div>
 </section>

diff --git a/glossaire/mondes/plus-value/monde.js b/glossaire/mondes/plus-value/monde.js
@@ -253,11 +253,13 @@ window.LM_MONDE = function (canvas) {
     var dist = camera.position.distanceTo(camA);
     var fwd = new THREE.Vector3().subVectors(camA, camera.position).normalize();
     var right = new THREE.Vector3().crossVectors(fwd, V3(0, 1, 0)).normalize();
-    /* mise en page « marge » : la scène a sa propre colonne, rien ne la
-       recouvre — on ne décale donc presque pas, elle se cadre centrée */
-    /* la colonne de texte occupe 43 % de la largeur : l'ensemble, court,
-       se pose entre 51 % et 92 % — le décalage vaut 0,80 à pleine distance */
-    aim.copy(camA).addScaledVector(right, -Math.min(0.26 * dist, 0.80));
+    /* Octobre 2026 : la scène n'est plus en plein écran derrière le texte,
+       c'est une figure en bas de page que rien ne recouvre. Le décalage à
+       gauche (qui laissait la moitié gauche à la colonne de texte) la
+       décentrait : il ne joue plus que sur un canevas d'au moins 1100 px
+       qui ne serait pas une figure, c'est-à-dire jamais sur cette page. */
+    var large = canvas.clientWidth >= 1100 && !(canvas.closest && canvas.closest('.nt-fig'));
+    aim.copy(camA).addScaledVector(right, large ? -Math.min(0.26 * dist, 0.80) : 0);
     camera.lookAt(aim);
     render();
   }
